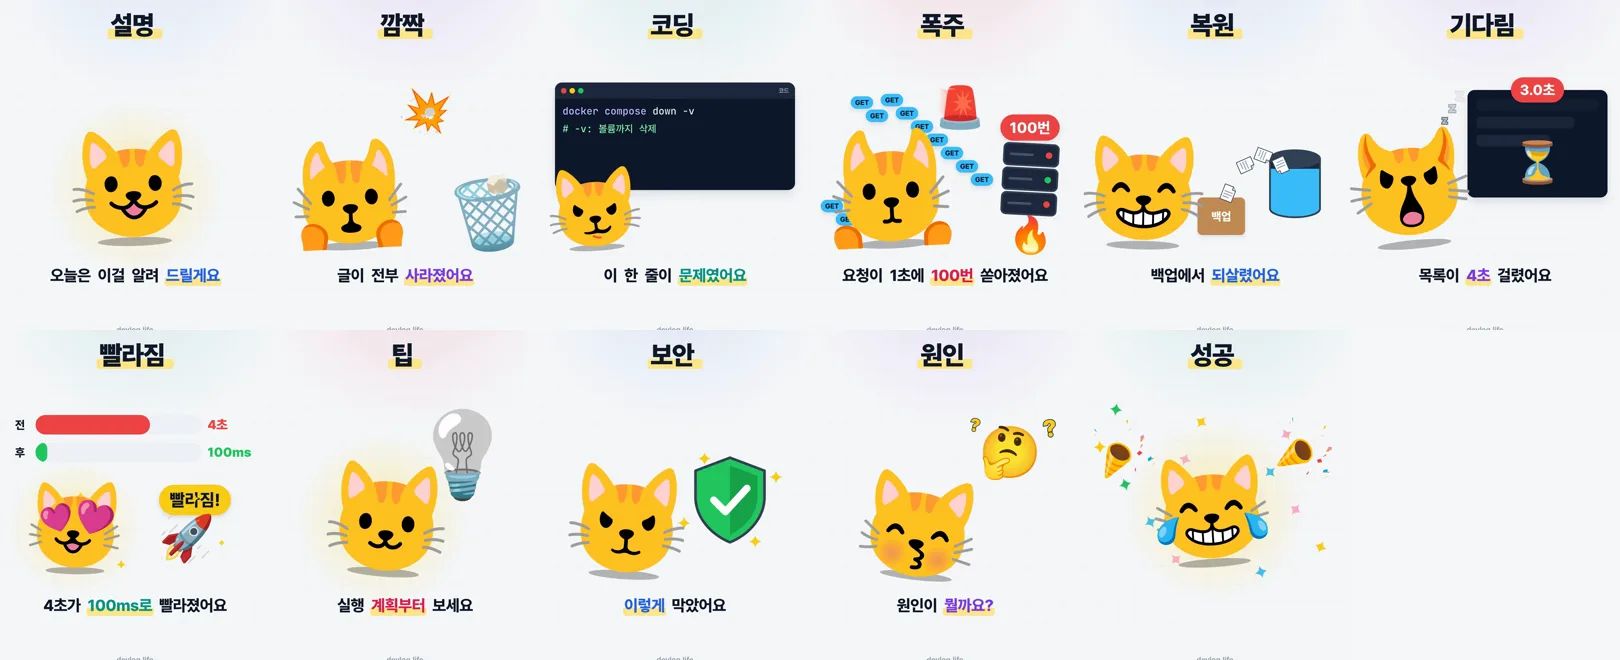
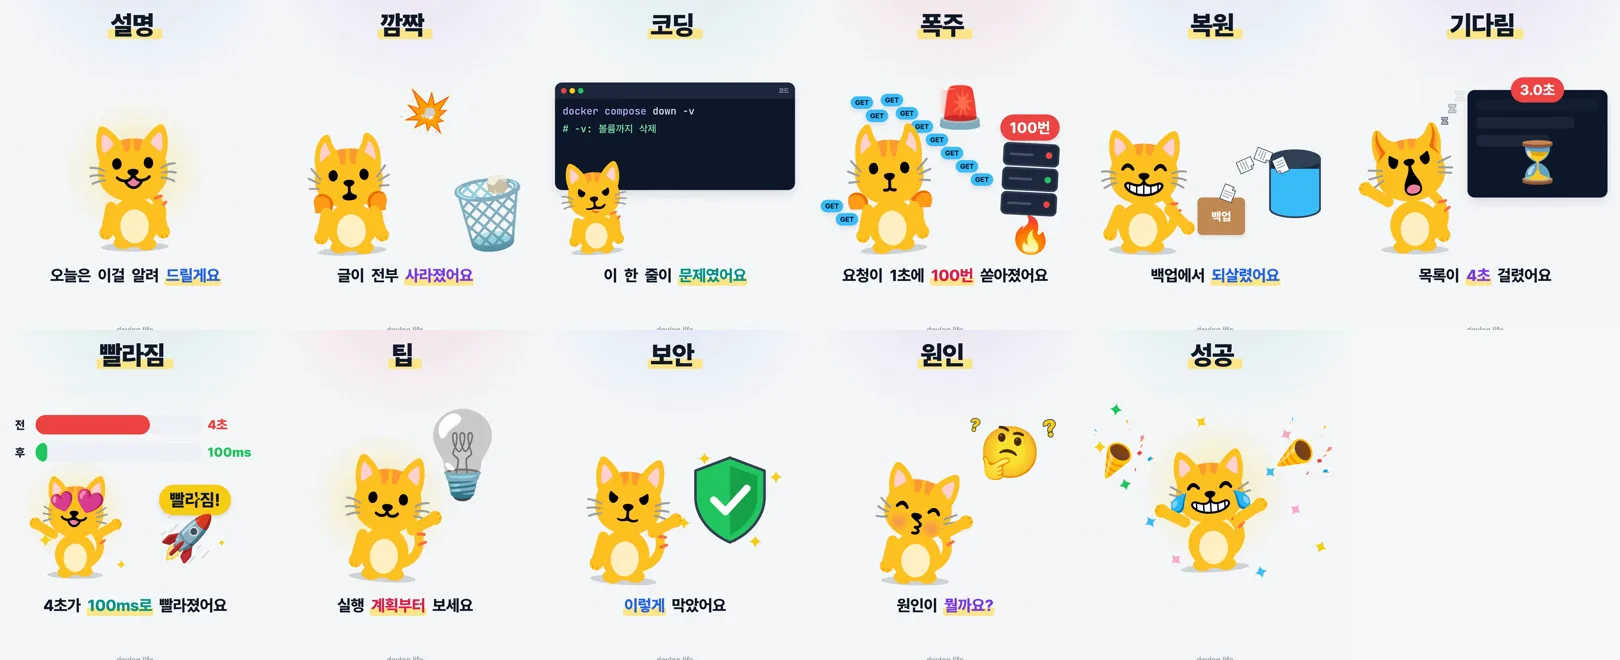
render-worker: 고양이에 몸·팔·다리·꼬리를 달아 몸짓으로 연기하기 (#277)
- Noto 고양이 얼굴(Lottie) 아래 같은 색(#ffc021)으로 몸통·배·다리·꼬리를 그리고, 팔은 연기의 armL·armR 각도로 움직인다
- 위로 든 팔은 얼굴을 가리지 않게 바깥 대각선 120도까지, 놀란 얼굴(손이 있는 이모지)은 팔을 내린다
- 도식 발표자는 손 이모지 대신 오른팔로 가리키고, 다 나오면 두 팔을 든다
- CI 지표에 검토한 캐릭터 후보(react-kawaii, rive-react, spine-runtimes) 추가

Claude-Session: https://claude.ai/code/session_01Y8NuZvyFS4arTLvW25ncLP

diff --git a/app/render-worker/remotion/src/Emoji.tsx b/app/render-worker/remotion/src/Emoji.tsx
@@ -54,28 +54,80 @@ const FACES: Record<Face, EmojiName> = {
   pout: 'catPout',
 };
 
-/** 마스코트: 고양이 얼굴 이모지. 연기(actions.tsx)가 정한 위치·크기·찌그러짐·기울기·말하기를 그대로 받는다 */
+/** 마스코트 몸 색: Noto 고양이 얼굴과 같은 색(노랑 #ffc021, 줄무늬 #ff6f43)으로 이어 그린다 */
+const FUR = '#ffc021';
+const FUR_D = '#f5a300';
+const STRIPE = '#ff6f43';
+const CREAM = '#fff1c4';
+
+/** 팔 하나: 어깨(sx, sy)에서 angle도(0 = 아래, 양수 = 바깥으로 들어 올림)로 뻗는다. side -1 왼쪽, 1 오른쪽 */
+const Arm: React.FC<{H: number; side: -1 | 1; angle: number}> = ({H, side, angle}) => {
+  const len = H * 0.24;
+  const w = H * 0.085;
+  const sx = side * H * 0.17;
+  const sy = -H * 0.36;
+  // SVG 회전은 시계 방향. 오른팔은 바깥(오른쪽)으로 들면 반시계(-), 왼팔은 시계(+)
+  // 머리가 커서 위로 곧게 들면 얼굴을 가리므로, 위로 든 팔은 바깥 대각선(최대 120도)까지만 든다
+  const a = Math.min(angle, 120);
+  const rot = side === 1 ? -a : a;
+  return (
+    <g transform={`translate(${sx} ${sy}) rotate(${rot})`}>
+      <rect x={-w / 2} y={0} width={w} height={len} rx={w / 2} fill={FUR} />
+      <circle cx={0} cy={len} r={w * 0.62} fill={FUR} />
+      <path d={`M ${-w * 0.22} ${len + w * 0.3} v ${w * 0.22} M ${w * 0.22} ${len + w * 0.3} v ${w * 0.22}`} stroke={FUR_D} strokeWidth={w * 0.12} strokeLinecap="round" />
+    </g>
+  );
+};
+
+/** 마스코트: Noto 고양이 얼굴(Lottie) + 같은 색으로 그린 몸·팔·다리·꼬리. 연기(actions.tsx)가 정한 위치·크기·찌그러짐·기울기·팔 각도·꼬리·말하기를 받는다 */
 const HAPPY: Face[] = ['grin', 'joy', 'love'];
 
 export const Mascot: React.FC<{p: Pose; face: Face}> = ({p, face}) => {
   const frame = useCurrentFrame();
-  const size = p.size * 0.92;
+  const H = p.size;
+  const head = H * 0.66;
   // 기쁜 표정 뒤에는 숨 쉬듯 커졌다 작아지는 빛을 깔아 시선을 모은다
   const rays = HAPPY.includes(face);
-  // 말할 때 소리 크기만큼 살짝 커졌다 작아져서 말하는 느낌을 준다
+  // 말할 때 머리가 소리 크기만큼 살짝 커지고 까딱인다
   const talk = 1 + 0.05 * p.talk;
+  // 발: 공중에 뜨면(뛰기) 오므리고, 걷는 듯 번갈아 들썩인다
+  const step = Math.sin(frame / 4) * H * 0.008;
+  const tailRot = -20 + p.tail * 0.8;
   return (
     <>
     {rays ? (
-      <div style={{position: 'absolute', left: p.x - size * 0.8, top: p.y - size * 1.3, width: size * 1.6, height: size * 1.6, borderRadius: '50%',
+      <div style={{position: 'absolute', left: p.x - H * 0.6, top: p.y - H * 1.2, width: H * 1.2, height: H * 1.2, borderRadius: '50%',
         background: 'radial-gradient(circle, rgba(253,224,71,0.45) 0%, rgba(253,224,71,0.18) 35%, rgba(253,224,71,0) 62%)',
         scale: String(1 + 0.06 * Math.sin(frame / 8))}} />
     ) : null}
-    <div style={{position: 'absolute', left: p.x - size / 2, top: p.y - size, width: size, height: size, transformOrigin: '50% 100%',
-      scale: `${(talk / Math.sqrt(p.squash)).toFixed(4)} ${(talk * p.squash).toFixed(4)}`, rotate: `${p.bodyTilt + p.headTilt * 0.6}deg`}}>
-      <div style={{position: 'absolute', left: size * 0.2, right: size * 0.2, bottom: size * 0.02, height: size * 0.07, borderRadius: '50%',
-        background: 'rgba(0,0,0,0.28)'}} />
-      <Lottie animationData={DATA[FACES[face]]} loop style={{width: size, height: size}} />
+    <div style={{position: 'absolute', left: p.x - H / 2, top: p.y - H, width: H, height: H, transformOrigin: '50% 100%',
+      scale: `${(p.flip ? -1 : 1) / Math.sqrt(p.squash)} ${p.squash}`, rotate: `${p.bodyTilt}deg`}}>
+      <svg viewBox={`${-H / 2} ${-H} ${H} ${H}`} width={H} height={H} style={{position: 'absolute', inset: 0, overflow: 'visible'}}>
+        <ellipse cx={0} cy={-H * 0.012} rx={H * 0.26} ry={H * 0.035} fill="rgba(15,23,42,0.16)" />
+        {/* 꼬리: 엉덩이 뒤에서 위로 말려 올라가고 꼬리 각도만큼 흔들린다 */}
+        <g transform={`translate(${H * 0.13} ${-H * 0.12}) rotate(${tailRot})`}>
+          <path d={`M 0 0 C ${H * 0.16} ${-H * 0.02}, ${H * 0.2} ${-H * 0.16}, ${H * 0.14} ${-H * 0.28}`} stroke={FUR} strokeWidth={H * 0.07} fill="none" strokeLinecap="round" />
+          <path d={`M ${H * 0.165} ${-H * 0.13} l ${H * 0.05} ${-H * 0.012} M ${H * 0.16} ${-H * 0.21} l ${H * 0.05} ${H * 0.01}`} stroke={STRIPE} strokeWidth={H * 0.022} strokeLinecap="round" />
+        </g>
+        {/* 다리 */}
+        {[-1, 1].map((s) => (
+          <ellipse key={s} cx={s * H * 0.09} cy={-H * 0.04 + (s === 1 ? step : -step)} rx={H * 0.075} ry={H * 0.05} fill={FUR} />
+        ))}
+        {/* 몸통과 배 */}
+        <ellipse cx={0} cy={-H * 0.2} rx={H * 0.19} ry={H * 0.19} fill={FUR} />
+        <ellipse cx={0} cy={-H * 0.17} rx={H * 0.11} ry={H * 0.13} fill={CREAM} />
+      </svg>
+      {/* 머리: Noto 고양이 얼굴. 기울기·말하기는 머리만 */}
+      <div style={{position: 'absolute', left: (H - head) / 2, top: H * 0.04, width: head, height: head, transformOrigin: '50% 85%',
+        rotate: `${p.headTilt}deg`, scale: String(talk)}}>
+        <Lottie animationData={DATA[FACES[face]]} loop style={{width: head, height: head}} />
+      </div>
+      {/* 팔은 머리 앞에 그려서 들어 올려도 보인다 */}
+      <svg viewBox={`${-H / 2} ${-H} ${H} ${H}`} width={H} height={H} style={{position: 'absolute', inset: 0, overflow: 'visible'}}>
+        {/* 놀란 얼굴(🙀)은 이모지에 손이 있어 팔을 내린다 */}
+        <Arm H={H} side={-1} angle={face === 'shock' ? 15 : p.armL} />
+        <Arm H={H} side={1} angle={face === 'shock' ? 15 : p.armR} />
+      </svg>
     </div>
     </>
   );

diff --git a/app/render-worker/remotion/src/actions.tsx b/app/render-worker/remotion/src/actions.tsx
@@ -66,15 +66,11 @@ export const Act: React.FC<{scene: SceneData; first: boolean}> = ({scene, first}
 export const Presenter: React.FC<{scene: SceneData; beats: number[]; done: boolean}> = ({scene, beats, done}) => {
   const life = useLife(scene, -1, beats);
   const {t, live, talk} = life;
-  const p = live({x: 150, y: STAGE_H - 10, size: 250, look: [1, -0.6]});
-  const reach = Math.sin(t * 3.2) * 10 + talk * 8;
-  return (
-    <>
-      <Mascot face={done ? 'joy' : talk > 0.06 ? 'grin' : 'smile'} p={p} />
-      {done ? <Emoji name="thumbs" x={p.x + 150} y={p.y - 170} size={120} rotate={-8} /> :
-        <Emoji name="pointR" x={p.x + 150 + reach} y={p.y - 170 - reach * 0.6} size={120} rotate={-28} />}
-    </>
-  );
+  // 오른팔로 도식을 가리키고(말할 때 더 크게 흔든다), 다 나오면 두 팔을 들어 기뻐한다
+  const reach = Math.sin(t * 3.2) * 8 + talk * 10;
+  const p = live({x: 150, y: STAGE_H - 10, size: 300, look: [1, -0.6], bodyTilt: done ? 0 : 6,
+    armR: done ? 115 : 105 + reach, armL: done ? 115 : 18 + Math.sin(t * 2) * 6});
+  return <Mascot face={done ? 'joy' : talk > 0.06 ? 'grin' : 'smile'} p={p} />;
 };
 
 type Life = ReturnType<typeof useLife>;
